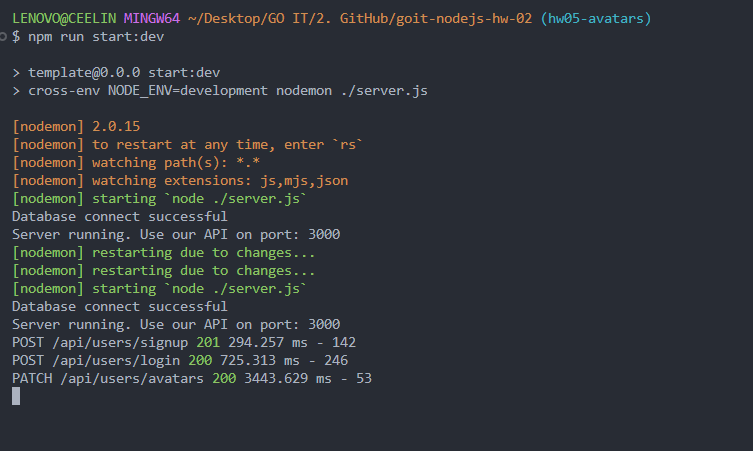
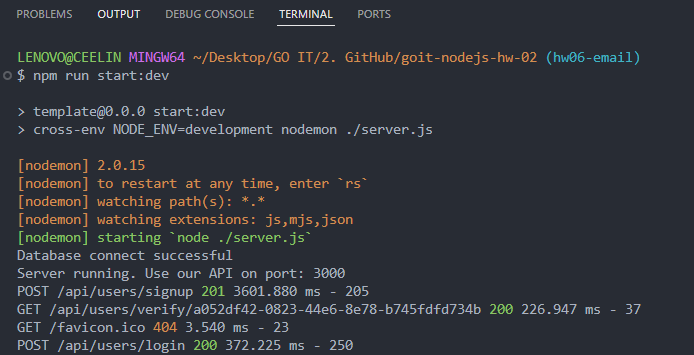
Updated Codes

diff --git a/controllers/usersController.js b/controllers/usersController.js
@@ -7,10 +7,12 @@ import jwt from "jsonwebtoken";
 import "dotenv/config";
 import { User } from "../models/usersModel.js";
 // prettier-ignore
-import { signupValidation, subscriptionValidation } from "../validations/validation.js";
+import {emailValidation, signupValidation, subscriptionValidation} from "../validations/validation.js";
 import { httpError } from "../helpers/httpError.js";
+import { sendEmail } from "../helpers/sendEmail.js";
+import { v4 as uuid4 } from "uuid";
 
-const { SECRET_KEY } = process.env;
+const { SECRET_KEY, PORT } = process.env;
 
 const signupUser = async (req, res) => {
   const { email, password } = req.body;
@@ -29,10 +31,19 @@ const signupUser = async (req, res) => {
 
   const avatarURL = gravatar.url(email, { protocol: "http" });
 
+  const verificationToken = uuid4();
+
   const newUser = await User.create({
     email,
     password: hashPassword,
     avatarURL,
+    verificationToken,
+  });
+
+  await sendEmail({
+    to: email,
+    subject: "Action Required: Verify Your Email",
+    html: `<a target="_blank" href="http://localhost:${PORT}/api/users/verify/${verificationToken}">Click to verify email</a>`,
   });
 
   res.status(201).json({
@@ -40,6 +51,7 @@ const signupUser = async (req, res) => {
       email: newUser.email,
       subscription: newUser.subscription,
       avatarURL: newUser.avatarURL,
+      verificationToken,
     },
   });
 };
@@ -132,5 +144,51 @@ const updateAvatar = async (req, res) => {
   res.status(200).json({ avatarURL });
 };
 
+const verifyEmail = async (req, res) => {
+  const { verificationToken } = req.params;
+
+  const user = await User.findOne({ verificationToken });
+
+  if (!user) {
+    throw httpError(400, "User not found");
+  }
+
+  await User.findByIdAndUpdate(user._id, {
+    verify: true,
+    verificationToken: null,
+  });
+
+  res.json({
+    message: "Verification successful",
+  });
+};
+
+const resendVerifyEmail = async (req, res) => {
+  const { email } = req.body;
+
+  const { error } = emailValidation.validate(req.body);
+  if (error) {
+    throw httpError(400, error.message);
+  }
+
+  const user = await User.findOne({ email });
+
+  if (!user) {
+    throw httpError(404, "The provided email address could not be found");
+  }
+
+  if (user.verify) {
+    throw httpError(400, "Verification has already been passed");
+  }
+
+  await sendEmail({
+    to: email,
+    subject: "Action Required: Verify Your Email",
+    html: `<a target="_blank" href="http://localhost:${PORT}/api/users/verify/${user.verificationToken}">Click to verify email</a>`,
+  });
+
+  res.json({ message: "Verification email sent" });
+};
+
 // prettier-ignore
-export { signupUser, loginUser, logoutUser, getCurrentUsers, updateUserSubscription, updateAvatar };
+export {signupUser, loginUser, logoutUser, getCurrentUsers, updateUserSubscription, updateAvatar, verifyEmail, resendVerifyEmail};

diff --git a/routes/api/usersRouter.js b/routes/api/usersRouter.js
@@ -1,7 +1,7 @@
 import express from "express";
 import { controlWrapper } from "../../helpers/controlWrapper.js";
 // prettier-ignore
-import { signupUser, loginUser, logoutUser, getCurrentUsers, updateUserSubscription, updateAvatar} from "../../controllers/usersController.js";
+import {signupUser, loginUser, logoutUser, getCurrentUsers, updateUserSubscription, updateAvatar, verifyEmail, resendVerifyEmail} from "../../controllers/usersController.js";
 import { authenticateToken } from "../../middlewares/authenticateToken.js";
 import { upload } from "../../middlewares/upload.js";
 
@@ -19,5 +19,9 @@ router.patch("/", authenticateToken, controlWrapper(updateUserSubscription));
 
 // prettier-ignore
 router.patch("/avatars", authenticateToken, upload.single("avatar"), controlWrapper(updateAvatar));
+
+router.get("/verify/:verificationToken", controlWrapper(verifyEmail));
+
+router.post("/verify", authenticateToken, controlWrapper(resendVerifyEmail));
 
 export { router };

diff --git a/validations/validation.js b/validations/validation.js
@@ -29,5 +29,15 @@ const subscriptionValidation = Joi.object({
   subscription: Joi.string().valid("starter", "pro", "business"),
 });
 
+const emailValidation = Joi.object({
+  email: Joi.string()
+    .email({ minDomainSegments: 2, tlds: { allow: ["com", "net"] } })
+    .required()
+    .messages({
+      "any.required": "Missing required email field",
+      "string.email": "Invalid email format",
+    }),
+});
+
 // prettier-ignore
-export { contactValidation, favoriteValidation, signupValidation, subscriptionValidation };
+export { contactValidation, favoriteValidation, signupValidation, subscriptionValidation, emailValidation };

diff --git a/helpers/sendEmail.js b/helpers/sendEmail.js
@@ -1,0 +1,24 @@
+import nodemailer from "nodemailer";
+import "dotenv/config";
+
+const { GMAIL_EMAIL, GMAIL_PASSWORD } = process.env;
+
+const nodemailerConfig = {
+  service: "Gmail",
+  host: "smtp.gmail.com",
+  port: 465,
+  secure: true,
+  auth: {
+    user: GMAIL_EMAIL,
+    pass: GMAIL_PASSWORD,
+  },
+};
+
+const transport = nodemailer.createTransport(nodemailerConfig);
+
+const sendEmail = async (data) => {
+  const email = { ...data, from: GMAIL_EMAIL };
+  await transport.sendMail(email);
+};
+
+export { sendEmail };

diff --git a/models/usersModel.js b/models/usersModel.js
@@ -23,6 +23,14 @@ const userSchema = new Schema(
       type: String,
       default: null,
     },
+    verify: {
+      type: Boolean,
+      default: false,
+    },
+    verificationToken: {
+      type: String,
+      required: [true, "Verify token is required"],
+    },
   },
   { versionKey: false }
 );
